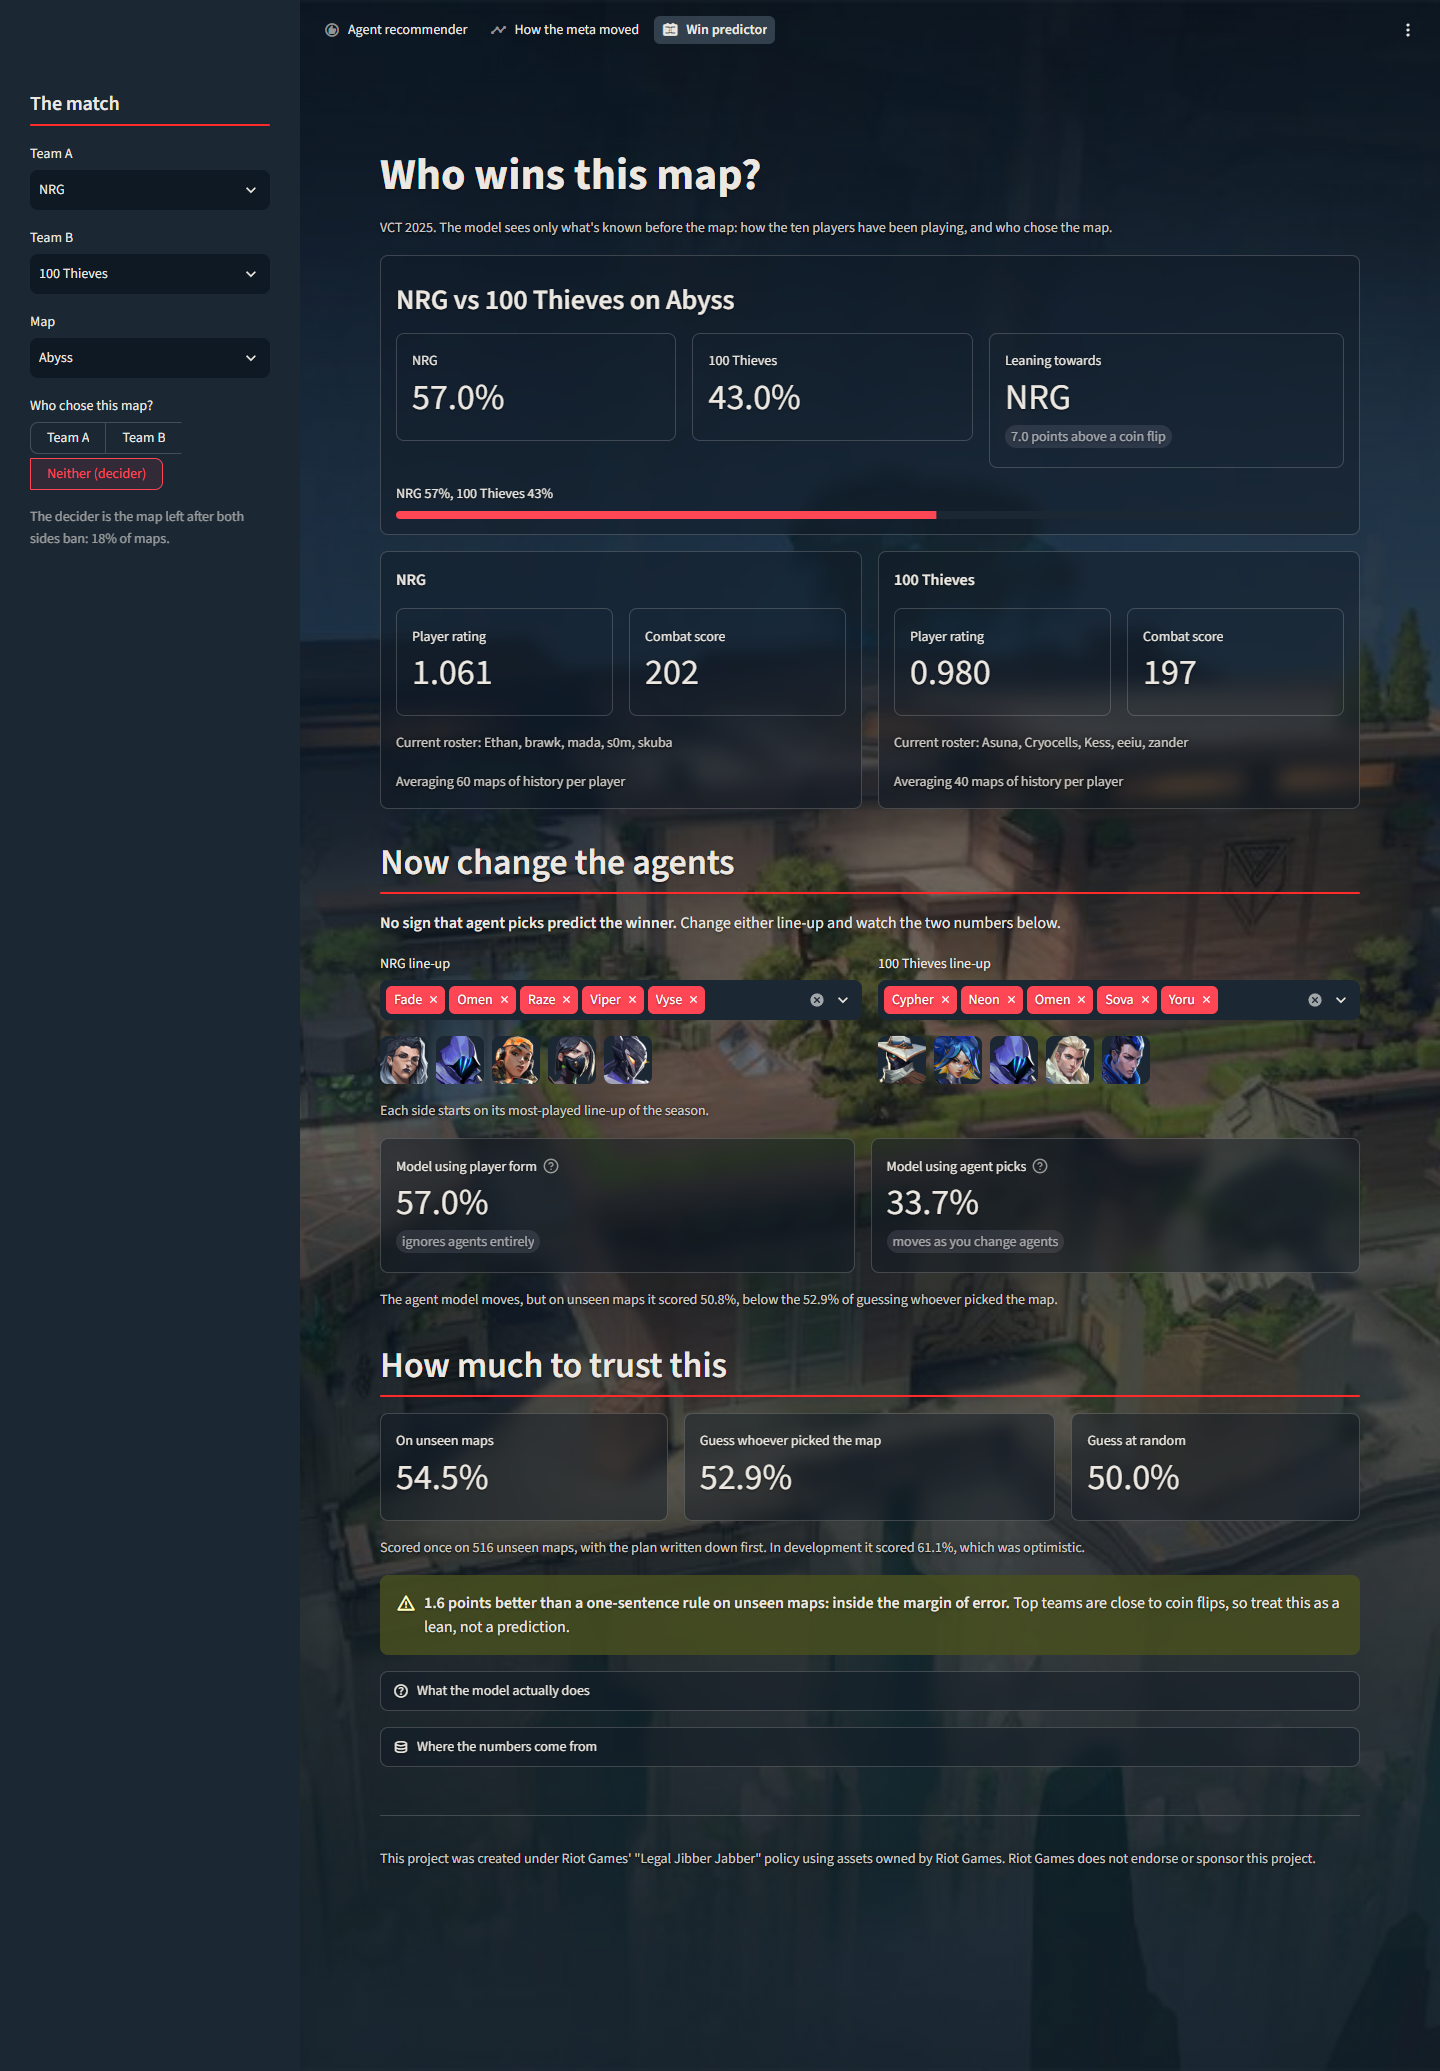
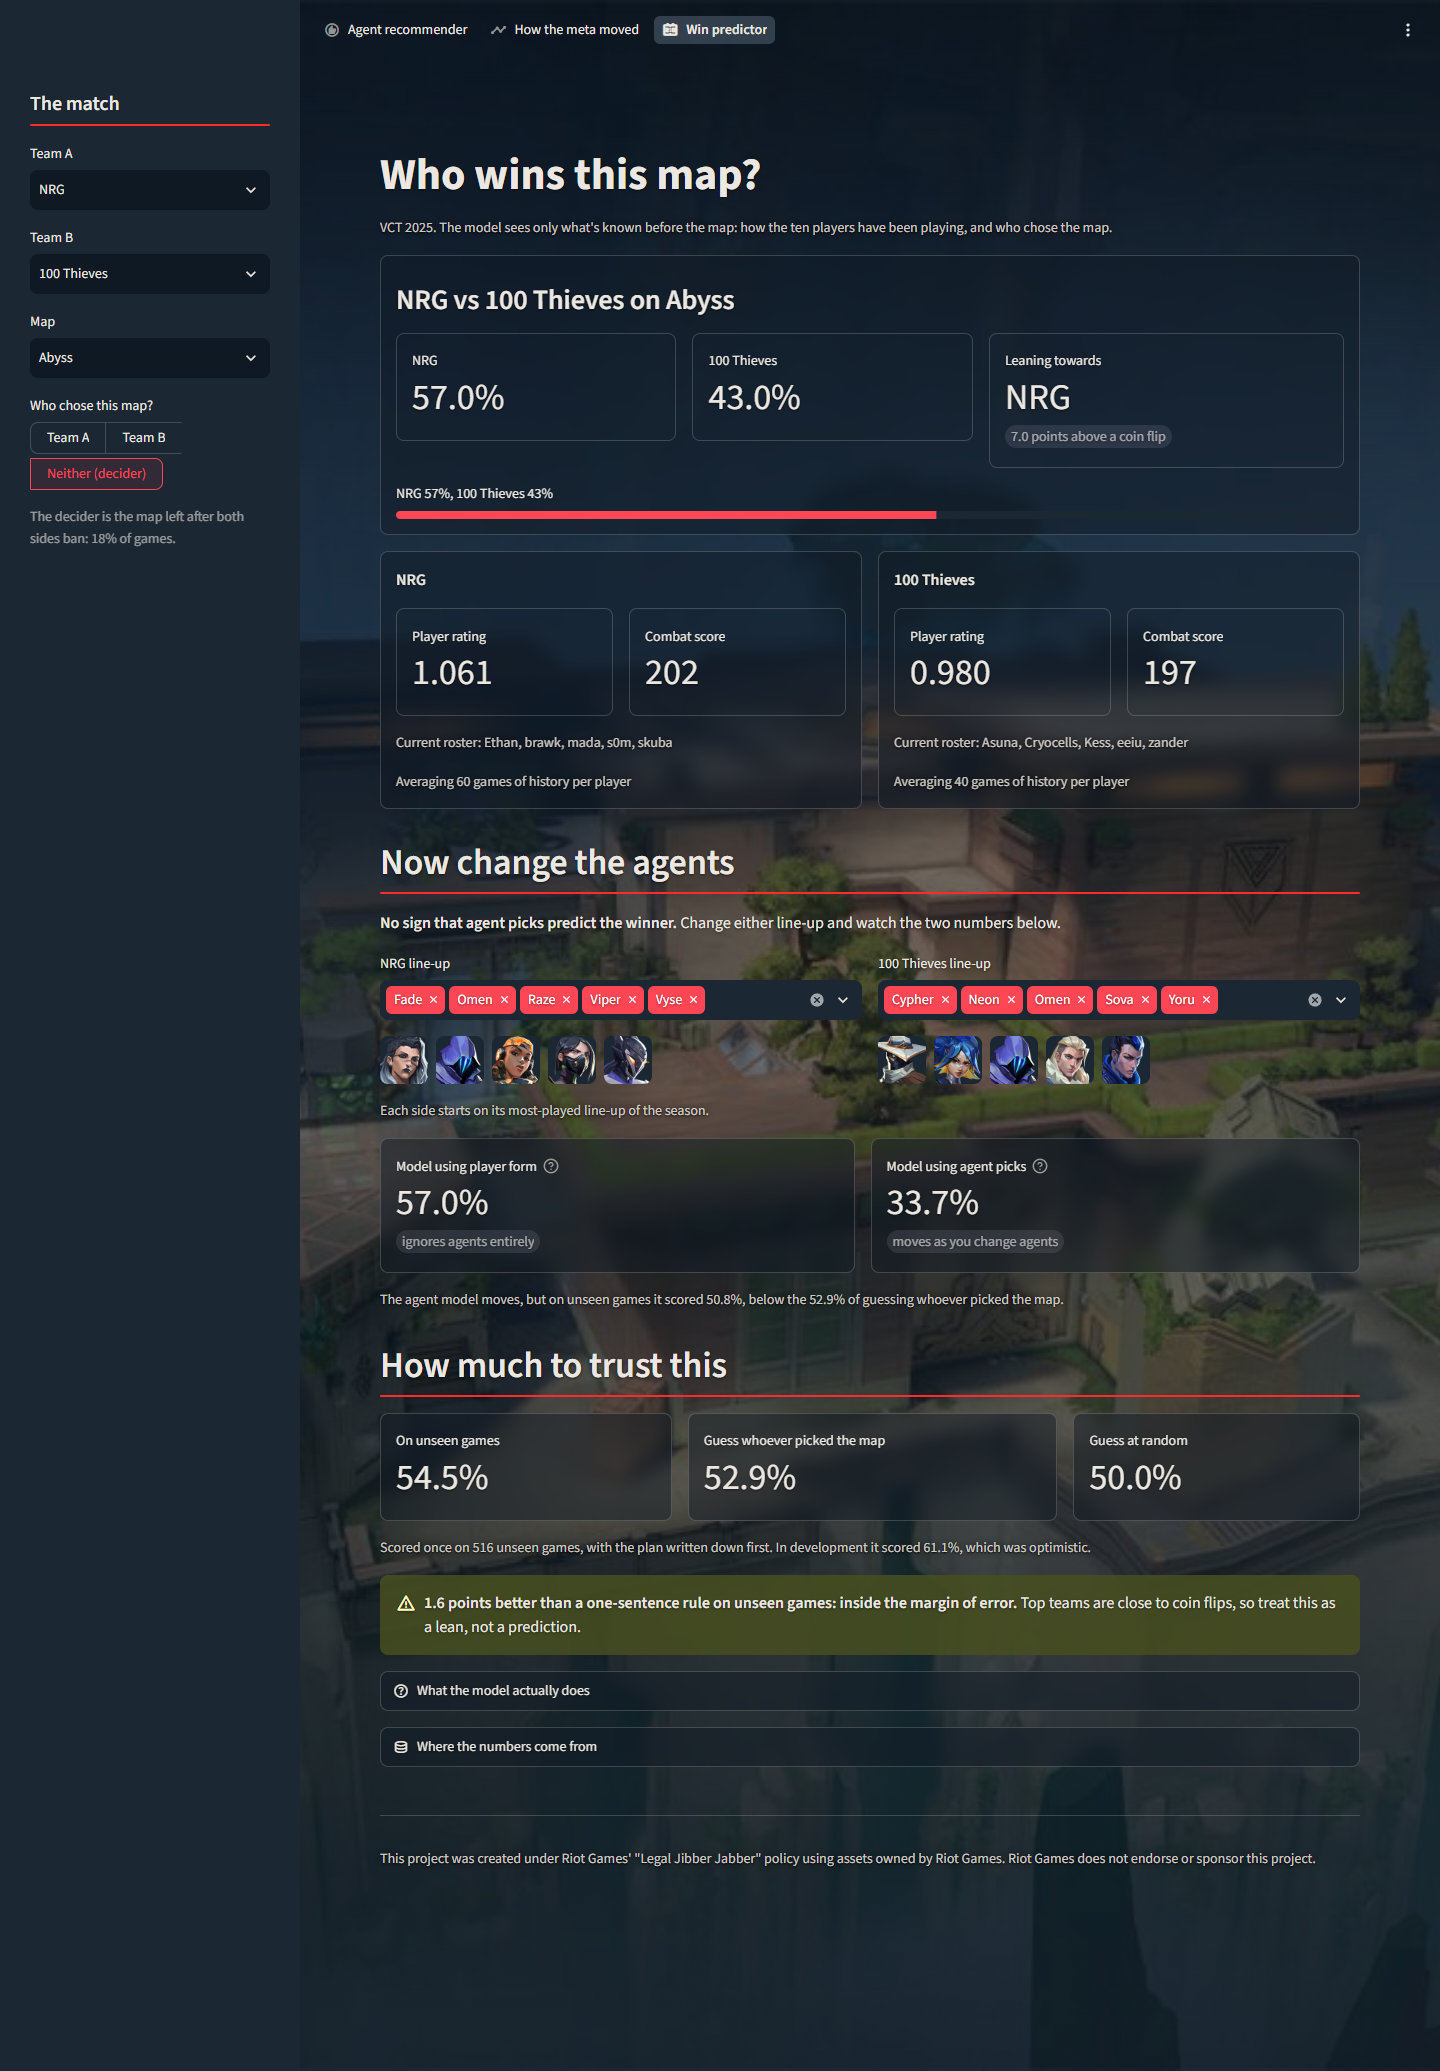
Three more review passes: consistent wording and timings
Pass 1 traced every number in the slides, notes, script and app to its source (no conflicts). Pass 2 found the win predictor calling single games maps, unlike the deck, and the speaker-note timings (10:14) disagreeing with the script (about 9 minutes); both fixed. Pass 3 drove the live app along the demo path: all 26 quoted values appear as stated, and all 22 slides lay out cleanly.

diff --git a/app_pages/win_predictor.py b/app_pages/win_predictor.py
@@ -119,7 +119,7 @@ with st.sidebar:
         default="Neither (decider)",
     ) or "Neither (decider)"
 
-    st.caption("The decider is the map left after both sides ban: 18% of maps.")
+    st.caption("The decider is the map left after both sides ban: 18% of games.")
 
 picked_value = {"Team A": 1, "Team B": -1, "Neither (decider)": 0}[picked_by]
 map_background(chosen_map)
@@ -168,7 +168,7 @@ for side, (column, team) in enumerate([(left, team_a), (right, team_b)]):
             st.metric("Player rating", f"{row['rating']:.3f}", border=True)
             st.metric("Combat score", f"{row['acs']:.0f}", border=True)
         st.caption(f"Current roster: {row['players']}")
-        st.caption(f"Averaging {row['maps_played']:.0f} maps of history per player")
+        st.caption(f"Averaging {row['maps_played']:.0f} games of history per player")
 
 # ---------------------------------------------------------------- the agent demo
 st.header("Now change the agents", divider="red")
@@ -205,7 +205,7 @@ with st.container(horizontal=True):
         delta_color="off",
         delta_arrow="off",
         border=True,
-        help=f"{TEST_FORM_ACCURACY:.1%} on unseen maps, against {TEST_PICKER_ACCURACY:.1%} "
+        help=f"{TEST_FORM_ACCURACY:.1%} on unseen games, against {TEST_PICKER_ACCURACY:.1%} "
              "for guessing whoever picked the map.",
     )
     st.metric(
@@ -215,12 +215,12 @@ with st.container(horizontal=True):
         delta_color="off",
         delta_arrow="off",
         border=True,
-        help=f"{TEST_AGENT_ACCURACY:.1%} on unseen maps, below the picker rule's "
+        help=f"{TEST_AGENT_ACCURACY:.1%} on unseen games, below the picker rule's "
              f"{TEST_PICKER_ACCURACY:.1%}.",
     )
 
 st.caption(
-    f"The agent model moves, but on unseen maps it scored {TEST_AGENT_ACCURACY:.1%}, below the "
+    f"The agent model moves, but on unseen games it scored {TEST_AGENT_ACCURACY:.1%}, below the "
     f"{TEST_PICKER_ACCURACY:.1%} of guessing whoever picked the map."
 )
 
@@ -228,18 +228,18 @@ st.caption(
 st.header("How much to trust this", divider="red")
 
 with st.container(horizontal=True):
-    st.metric("On unseen maps", f"{TEST_FORM_ACCURACY:.1%}", border=True)
+    st.metric("On unseen games", f"{TEST_FORM_ACCURACY:.1%}", border=True)
     st.metric("Guess whoever picked the map", f"{TEST_PICKER_ACCURACY:.1%}", border=True)
     st.metric("Guess at random", "50.0%", border=True)
 
 st.caption(
-    f"Scored once on 516 unseen maps, with the plan written down first. In development it scored "
+    f"Scored once on 516 unseen games, with the plan written down first. In development it scored "
     f"{DEV_FORM_ACCURACY:.1%}, which was optimistic."
 )
 
 st.warning(
     f"**{(TEST_FORM_ACCURACY - TEST_PICKER_ACCURACY) * 100:.1f} points better than a one-sentence "
-    "rule on unseen maps: inside the margin of error.** Top teams are close to coin flips, so "
+    "rule on unseen games: inside the margin of error.** Top teams are close to coin flips, so "
     "treat this as a lean, not a prediction.",
     icon=":material/warning:",
 )
@@ -249,12 +249,12 @@ with st.expander("What the model actually does", icon=":material/help:"):
         f"""
 **Two inputs:**
 
-- **The players' rating gap**, from every map those ten players had already played that
-  season, a map {HALF_LIFE} maps back counting half. Combat score stands in where rating
+- **The players' rating gap**, from every game those ten players had already played that
+  season, a game {HALF_LIFE} games back counting half. Combat score stands in where rating
   wasn't recorded (much of China early in the season).
 - **Who chose the map:** team A, team B, or nobody.
 
-A logistic regression turns them into a probability. Fitted on the {len(learn):,} maps up to
+A logistic regression turns them into a probability. Fitted on the {len(learn):,} games up to
 late June 2025, then scored once on the {len(maps) - len(learn):,} after: {TEST_FORM_ACCURACY:.1%}
 against {TEST_PICKER_ACCURACY:.1%} for guessing whoever picked the map.
 
@@ -268,7 +268,7 @@ from {DEV_FORM_ACCURACY:.1%} to about 55% in development.
 with st.expander("Where the numbers come from", icon=":material/database:"):
     st.markdown(
         f"""
-{len(maps):,} maps from VCT 2025. The ratings below use the whole season, since a live
+{len(maps):,} games from VCT 2025. The ratings below use the whole season, since a live
 prediction is for a match after it; the model itself was trained on the first half only.
 Chinese teams' ratings rest on fewer maps, because rating was often not recorded there.
         """
